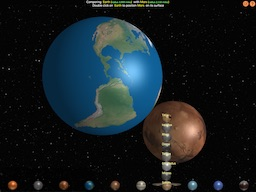
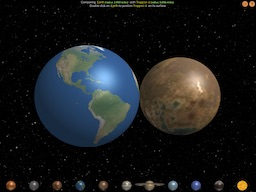
Update to Celestial Bodies to include the TRAPPIST system

diff --git a/apps/celestial_bodies/css/body_menu.css b/apps/celestial_bodies/css/body_menu.css
@@ -1,7 +1,7 @@
  .menu-sun-container {
      position: absolute;
      height: 64px;
-     width: 10%;
+     width: 9%;
      left: 0%;
      bottom: 16px;
  }
@@ -21,8 +21,8 @@
  .menu-mercury-container {
      position: absolute;
      height: 64px;
-     width: 10%;
-     left: 10%;
+     width: 9%;
+     left: 9%;
      bottom: 16px;
  }
  .menu-mercury a {
@@ -41,8 +41,8 @@
  .menu-venus-container {
      position: absolute;
      height: 64px;
-     width: 10%;
-     left: 20%;
+     width: 9%;
+     left: 18%;
      bottom: 16px;
  }
  .menu-venus a {
@@ -61,8 +61,8 @@
  .menu-earth-container {
      position: absolute;
      height: 64px;
-     width: 10%;
-     left: 30%;
+     width: 9%;
+     left: 27%;
      bottom: 16px;
  }
  .menu-earth a {
@@ -87,8 +87,8 @@
  .menu-mars-container {
      position: absolute;
      height: 64px;
-     width: 10%;
-     left: 40%;
+     width: 9%;
+     left: 36%;
      bottom: 16px;
  }
  .menu-mars a {
@@ -107,8 +107,8 @@
  .menu-jupiter-container {
      position: absolute;
      height: 64px;
-     width: 10%;
-     left: 50%;
+     width: 9%;
+     left: 45%;
      bottom: 16px;
  }
  .menu-jupiter a {
@@ -148,8 +148,8 @@
  .menu-saturn-container {
      position: absolute;
      height: 64px;
-     width: 10%;
-     left: 60%;
+     width: 9%;
+     left: 54%;
      bottom: 16px;
  }
  .menu-saturn-2 a {
@@ -211,8 +211,8 @@
  .menu-uranus-container {
      position: absolute;
      height: 64px;
-     width: 10%;
-     left: 70%;
+     width: 9%;
+     left: 63%;
      bottom: 16px;
  }
  .menu-uranus a {
@@ -258,8 +258,8 @@
  .menu-neptune-container {
      position: absolute;
      height: 64px;
-     width: 10%;
-     left: 80%;
+     width: 9%;
+     left: 72%;
      bottom: 16px;
  }
  .menu-neptune a {
@@ -293,8 +293,8 @@
  .menu-pluto-container {
      position: absolute;
      height: 64px;
-     width: 10%;
-     left: 90%;
+     width: 9%;
+     left: 81%;
      bottom: 16px;
  }
  .menu-pluto a {
@@ -315,4 +315,60 @@
  }
  .menu-pluto:hover i:nth-child(2) {
      color: rgba(255, 255, 160, 1.0);
+ }
+ .menu-trappist-container {
+     position: absolute;
+     height: 64px;
+     width: 9%;
+     left: 90%;
+     bottom: 16px;
+ }
+ .menu-trappist a {
+     position: absolute;
+     left: calc(50% - 32px);
+     transition: all 0.3s ease;
+ }
+.menu-trappist:hover a:nth-child(1) {
+     transform: translate(0, -66px);
+ }
+ .menu-trappist:hover a:nth-child(2) {
+     transform: translate(0, -132px);
+ }
+ .menu-trappist:hover a:nth-child(3) {
+     transform: translate(0, -198px);
+ }
+ .menu-trappist:hover a:nth-child(4) {
+     transform: translate(0, -264px);
+ }
+ .menu-trappist:hover a:nth-child(5) {
+     transform: translate(0, -330px);
+ }
+ .menu-trappist:hover a:nth-child(6) {
+     transform: translate(0, -396px);
+ }
+ .menu-trappist:hover a:nth-child(7) {
+     transform: translate(0, -468px);
+ }
+ .menu-trappist i {
+     position: absolute;
+     color: rgba(255, 255, 160, 0.0);
+     left: calc(50% - 32px);
+ }
+.menu-trappist:hover i:nth-child(1) {
+     color: rgba(255, 255, 190, 1.0);
+ }
+.menu-trappist:hover i:nth-child(2) {
+     color: rgba(255, 255, 190, 1.0);
+ }
+.menu-trappist:hover i:nth-child(3) {
+     color: rgba(255, 255, 190, 1.0);
+ }
+.menu-trappist:hover i:nth-child(4) {
+     color: rgba(255, 255, 190, 1.0);
+ }
+.menu-trappist:hover i:nth-child(5) {
+     color: rgba(255, 255, 190, 1.0);
+ }
+.menu-trappist:hover i:nth-child(6) {
+     color: rgba(255, 255, 190, 1.0);
  }

diff --git a/apps/celestial_bodies/index.html b/apps/celestial_bodies/index.html
@@ -85,6 +85,18 @@
                 <a href="#" onclick="select('pluto');"><img src="thumbs/pluto_thumb.png"><i>Pluto</i></a>
             </div>
         </div>
+        <div class="menu-trappist-container">
+            <div class="menu-trappist">
+                <a href="#" onclick="select('trappist-b');"><img src="thumbs/trappist-b_thumb.png"><i>TRAPPIST 1-b</i></a>
+                <a href="#" onclick="select('trappist-c');"><img src="thumbs/trappist-c_thumb.png"><i>TRAPPIST 1-c</i></a>
+                <a href="#" onclick="select('trappist-d');"><img src="thumbs/trappist-d_thumb.png"><i>TRAPPIST 1-d</i></a>
+                <a href="#" onclick="select('trappist-e');"><img src="thumbs/trappist-e_thumb.png"><i>TRAPPIST 1-e</i></a>
+                <a href="#" onclick="select('trappist-f');"><img src="thumbs/trappist-f_thumb.png"><i>TRAPPIST 1-f</i></a>
+                <a href="#" onclick="select('trappist-g');"><img src="thumbs/trappist-g_thumb.png"><i>TRAPPIST 1-g</i></a>
+                <a href="#" onclick="select('trappist-h');"><img src="thumbs/trappist-h_thumb.png"><i>TRAPPIST 1-h</i></a>
+                <a href="#" onclick="select('trappist-1');"><img src="thumbs/trappist-1_thumb.png"><i>TRAPPIST 1-1</i></a>
+            </div>
+        </div>
         <div id="body_selector_description"></div>
         <div id="about_box_icon">
             <a href="#" onclick='showAbout(true);'><img src="images/about.png"></a>
@@ -104,7 +116,9 @@
             <div class="show help_contents" id="about_text">
                 <ul>
                     <h3><i>Celestial Bodies</i></h3>
-                    <li>A simple way to compare the sizes of our solar system's sun, planets and moons.</li>
+                    <li>A simple way to compare the sizes of our solar system's sun, planets and moons. My 5 year old was asking about the sizes of the planets and I made this to show her how they all line up,</li>
+                    <br>
+                    <li>After the exciting news about the TRAPPIST-1 in February 2017, I wanted to see how they compared to our solar system so I added them in - albeit with some poetic license for content :)</li>
                     <br>
                     <li>You can compare them side by side or with the smaller body positioned on the surface of the larger one.</li>
                 </ul>
@@ -132,6 +146,10 @@
                     <li>NASA data and image sites - many different ones but try <a target="_new" href="http://eol.jsc.nasa.gov//">here</a> first</li>
                     <br>
                     <li>Some of the texture maps come from <a href="http://planetpixelemporium.com/earth.html" target="_new">JHT's Planetary Pixel Emporium</a></li>
+                    <br>
+                    <li>Artist impression images of TRAPPIST planets via <a href="https://en.wikipedia.org/wiki/TRAPPIST-1" target="_new">this</a> Wikipedia page.</li>
+                    <br>
+                    <li>Speculative images of TRAPPIST-1 via <a href="http://paulbourke.net/texture_colour/perlin/" target="_new">this</a> page.</li>
                     <br>
                     <li><a href="http://threejs.org/" target="_new">three.js</a> - a very nice WebGL library</li>
                     <br>

diff --git a/index.html b/index.html
@@ -25,6 +25,14 @@
                 <h1>WebGL, WebVR and C++ apps, experiments and code</h1>
                 <ul class="rig columns-4">
                     <li>
+                        <a href="apps/celestial_bodies/index.html" target="_blank">
+                            <img class="img_border" src="thumbs/celestial_bodies.jpeg" />
+                        </a>
+                        <h3>Celestial Bodies (Now includes the TRAPPIST system)</h3>
+                        <p>This experiment allows you to compare the sizes of planets in our solar system (as requested by my 5 year old princess). This updated version now supports the TRAPPIST system bodies announced in February 2017</p>
+                        <a href="https://github.com/callumprentice/callumprentice.github.io/tree/master/apps/celestial_bodies" target="_blank"><img class="srcicon" src="img/githubsrc.png"></a>
+                    </li>
+                    <li>
                         <a href="apps/stack_overflowing/index.html" target="_blank">
                             <img class="img_border" src="thumbs/stack_overflowing.jpeg" />
                         </a>
@@ -78,14 +86,6 @@
                         <h3>GeomeTree</h3>
                         <p>Something I entered for the Christmas Experiment 2015 site but evidently, it wasn't high enough quality. I still like it though - Happy Holidays to everyone.</p>
                         <a href="https://github.com/callumprentice/callumprentice.github.io/tree/master/apps/geometree" target="_blank"><img class="srcicon" src="img/githubsrc.png"></a>
-                    </li>
-                    <li>
-                        <a href="apps/celestial_bodies/index.html" target="_blank">
-                            <img class="img_border" src="thumbs/celestial_bodies.jpeg" />
-                        </a>
-                        <h3>Celestial Bodies</h3>
-                        <p>Another updated experiment - this time it's a new version of the <a target="_new" href="http://callumprentice.github.io/apps/planet_compare/index.html">Planet Compare</a> app that allows you to compare the sizes of planets in our solar system. This updated and improved version lets you compare the sun, the planets and <u>now</u>, their major moons.</p>
-                        <a href="https://github.com/callumprentice/callumprentice.github.io/tree/master/apps/celestial_bodies" target="_blank"><img class="srcicon" src="img/githubsrc.png"></a>
                     </li>
                     <li>
                         <a href="apps/storm_tracks_webgl_too/index.html" target="_blank">

diff --git a/apps/celestial_bodies/js/body_data.js b/apps/celestial_bodies/js/body_data.js
@@ -155,5 +155,45 @@ var body_data = [{
         radius: 376,
         surface_texture: 'surface_textures/pluto/charon.jpg',
         mesh: 0
-    },
+    }, {
+        name: 'trappist-1',
+        radius: 49280,
+        surface_texture: 'surface_textures/trappist/trappist-1.jpg',
+        mesh: 0
+    }, {
+        name: 'trappist-b',
+        radius: 1.086 * 3959,
+        surface_texture: 'surface_textures/trappist/trappist-b.jpg',
+        mesh: 0
+    }, {
+        name: 'trappist-c',
+        radius: 1.056 * 3959,
+        surface_texture: 'surface_textures/trappist/trappist-c.jpg',
+        mesh: 0
+    }, {
+        name: 'trappist-d',
+        radius: 0.772 * 3959,
+        surface_texture: 'surface_textures/trappist/trappist-d.jpg',
+        mesh: 0
+    }, {
+        name: 'trappist-e',
+        radius: 0.918 * 3959,
+        surface_texture: 'surface_textures/trappist/trappist-e.jpg',
+        mesh: 0
+    }, {
+        name: 'trappist-f',
+        radius: 1.045 * 3959,
+        surface_texture: 'surface_textures/trappist/trappist-f.jpg',
+        mesh: 0
+    }, {
+        name: 'trappist-g',
+        radius: 1.127 * 3959,
+        surface_texture: 'surface_textures/trappist/trappist-g.jpg',
+        mesh: 0
+    }, {
+        name: 'trappist-h',
+        radius: 0.755 * 3959,
+        surface_texture: 'surface_textures/trappist/trappist-h.jpg',
+        mesh: 0
+    }
 ];

diff --git a/apps/celestial_bodies/js/app.js b/apps/celestial_bodies/js/app.js
@@ -1,6 +1,6 @@
 /**
  * Celestial Body Compare
- * @author Callum Prentice (2015) / http://callum.com/
+ * @author Callum Prentice (2017) / http://callum.com/
  */
 var camera, scene, renderer, controls;
 var firstBody = '';
